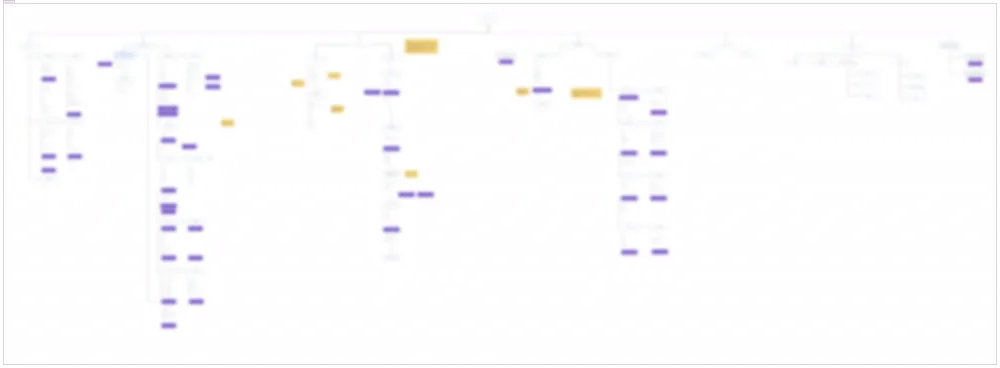
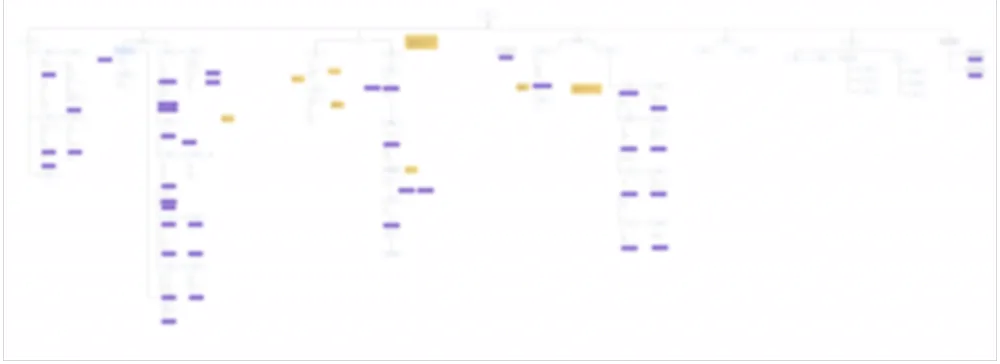
Take the tags the design gives, and crop Figma out of the pictures
Two fixes to the rebuild.

The cards were still carrying the five or six tags the old long-form
write-up used. The design names three per product, so each card takes
those three.

Three of the exported fills had Figma's own canvas chrome baked into
them - the rounded section outline and the little chip with the layer's
name - which the design never shows because it crops the fill inside the
frame. Read straight out of the asset server, that chrome came along and
drew a second frame just inside the real one. The outline sat two pixels
in on 02 and 03, and 01 carried the name chip alone; all three are cut
back to the artwork. The hand-placed crop on 01 loses the matching sliver
of height with it.

`cover` now also applies where a crop states both width and height, so a
rounding difference against the file's own ratio trims rather than
stretches.

diff --git a/src/copy/codete.copy.tsx b/src/copy/codete.copy.tsx
@@ -72,7 +72,7 @@ export const copy: { pl: CodeteCopy; en: CodeteCopy } = {
       {
         eyebrow: "01 · Management platform",
         title: "Redesign platformy do zarządzania",
-        tags: ["Enterprise", "Internal Tools", "Information Architecture", "Heavy Data", "Dashboard"],
+        tags: ["Redesign", "Enterprise", "Internal tools"],
         intro:
           "To narzędzie wewnętrzne dużego międzynarodowego operatora telekomunikacyjnego: firmy współpracujące, klienci i partnerzy razem z informacjami o nich i przypisanymi tokenami, użytkownicy z dostępami i stanowiskami. Do tego całe portfolio produktów, zamówienia, zarządzanie API i faktury. Korzystało z niego kilkaset osób.",
         roleHeading: "Moja rola",
@@ -94,7 +94,7 @@ export const copy: { pl: CodeteCopy; en: CodeteCopy } = {
       {
         eyebrow: "02 · DATA RECONCILIATION",
         title: "Platforma do negocjacji",
-        tags: ["B2B", "0→1", "Contract Management", "Data Reconciliation", "Design System", "Dashboard"],
+        tags: ["0→1 Design", "B2B SaaS", "Design System"],
         intro:
           "Narzędzie, w którym firmy zawierają ze sobą umowy i sprawdzają dane, które tym umowom podlegają. Zaprojektowałam cały produkt: mapowanie pól między systemami, które to porównanie robi za użytkownika, moduł negocjacji rozbieżności, logo, brand i design system od zera. 25+ widoków",
         roleHeading: "Moja rola",
@@ -116,7 +116,7 @@ export const copy: { pl: CodeteCopy; en: CodeteCopy } = {
       {
         eyebrow: "03 · DEV TOOLS",
         title: "Narzędzie dla deweloperów",
-        tags: ["DevTools", "B2B", "0→1", "Deployments & Releases", "Design System"],
+        tags: ["0→1 Design", "B2B SaaS", "Information Architecture"],
         intro:
           "Prowadziłam trzyosobowy zespół projektantów, ze mną włącznie. Zbudowaliśmy narzędzie dla deweloperów do nadzoru nad aplikacjami, pipeline'ami, środowiskami, deploymentami i release'ami.",
         roleHeading: "Moja rola",
@@ -138,7 +138,7 @@ export const copy: { pl: CodeteCopy; en: CodeteCopy } = {
       {
         eyebrow: "04 · DATA ANALYTICS",
         title: "Platforma do analizy danych",
-        tags: ["Data Analytics", "Heavy Data", "Data Lake", "0→1", "MVP"],
+        tags: ["MVP", "Enterprise", "Team Leadership"],
         intro:
           "Platforma do analizy danych, narzędzie dla analityków. Zbieranie surowych danych z data lake, budowanie pipeline'ów dla kolejnych etapów, katalogi danych, modelowanie i pluginy. Działające MVP miało powstać w 3 miesiące. Prowadziłam dwuosobowy zespół projektantów, ze mną włącznie.",
         roleHeading: "Moja rola",
@@ -201,7 +201,7 @@ export const copy: { pl: CodeteCopy; en: CodeteCopy } = {
       {
         eyebrow: "01 · Management platform",
         title: "Management platform redesign",
-        tags: ["Enterprise", "Internal Tools", "Information Architecture", "Heavy Data", "Dashboard"],
+        tags: ["Redesign", "Enterprise", "Internal tools"],
         intro:
           "This is an internal tool for a large international telecom operator: collaborating companies, clients and partners along with their information and assigned tokens, users with access levels and roles. On top of that, the entire product portfolio, orders, API management and invoices. Several hundred people used it.",
         roleHeading: "My role",
@@ -223,7 +223,7 @@ export const copy: { pl: CodeteCopy; en: CodeteCopy } = {
       {
         eyebrow: "02 · DATA RECONCILIATION",
         title: "Negotiation platform",
-        tags: ["B2B", "0→1", "Contract Management", "Data Reconciliation", "Design System", "Dashboard"],
+        tags: ["0→1 Design", "B2B SaaS", "Design System"],
         intro:
           "A tool where companies enter into contracts with each other and verify the data those contracts cover. I designed the entire product: field mapping between systems that runs the comparison for the user, a discrepancy-negotiation module, logo, brand and a design system from scratch. 25+ views",
         roleHeading: "My role",
@@ -245,7 +245,7 @@ export const copy: { pl: CodeteCopy; en: CodeteCopy } = {
       {
         eyebrow: "03 · DEV TOOLS",
         title: "Developer tool",
-        tags: ["DevTools", "B2B", "0→1", "Deployments & Releases", "Design System"],
+        tags: ["0→1 Design", "B2B SaaS", "Information Architecture"],
         intro:
           "I led a three-person team of designers, myself included. We built a tool for developers to oversee applications, pipelines, environments, deployments and releases.",
         roleHeading: "My role",
@@ -267,7 +267,7 @@ export const copy: { pl: CodeteCopy; en: CodeteCopy } = {
       {
         eyebrow: "04 · DATA ANALYTICS",
         title: "Data analytics platform",
-        tags: ["Data Analytics", "Heavy Data", "Data Lake", "0→1", "MVP"],
+        tags: ["MVP", "Enterprise", "Team Leadership"],
         intro:
           "A data analytics platform, a tool for analysts. Collecting raw data from a data lake, building pipelines for successive stages, data catalogs, modeling and plugins. A working MVP had to ship in 3 months. I led a two-person team of designers, myself included.",
         roleHeading: "My role",

diff --git a/src/pages/CodeteCaseStudy.tsx b/src/pages/CodeteCaseStudy.tsx
@@ -19,7 +19,10 @@ const PRODUCT_ICONS: LucideIcon[] = [Grid3x3, GitBranch, Terminal, ChartNoAxesCo
  *  the middle of a wide band. Percentages are the design's own. Every other
  *  picture matches its frame's ratio and simply covers it. */
 const CROPS: Record<string, NdaImageCrop> = {
-  "/codete-01-information-architecture.webp": { left: "0.55%", top: "-0.16%", width: "98.91%", height: "197.24%" },
+  // Height is 194.9%, not the design's 197.24%: the exported fill carried
+  // Figma's own canvas chrome — the section outline and its name chip — which
+  // is cropped out of the file here, leaving it fractionally shorter.
+  "/codete-01-information-architecture.webp": { left: "0.55%", top: "0%", width: "98.91%", height: "194.9%" },
   "/codete-04-data-flow.webp": { left: "20.98%", top: "-11.18%", width: "47.82%", height: "122.64%" },
 }
 

diff --git a/src/components/raporty-ds/content/NdaImage.tsx b/src/components/raporty-ds/content/NdaImage.tsx
@@ -64,7 +64,10 @@ export function NdaImage({ src, alt, label, aspect, crop, style }: NdaImageProps
         alt={alt}
         style={
           crop
-            ? { position: "absolute", left: crop.left, top: crop.top, width: crop.width, height: crop.height, maxWidth: "none", display: "block" }
+            ? // `cover` matters even here: width and height are both given, so any
+              // rounding between the stated box and the file's own ratio would
+              // otherwise stretch the picture instead of trimming a hair off it.
+              { position: "absolute", left: crop.left, top: crop.top, width: crop.width, height: crop.height, maxWidth: "none", display: "block", objectFit: "cover" }
             : { width: "100%", height: "100%", objectFit: "cover", display: "block" }
         }
       />
